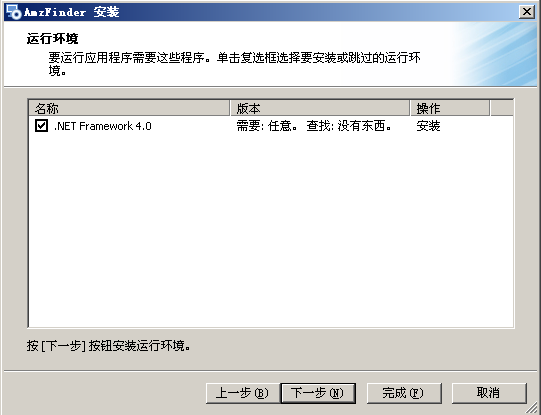
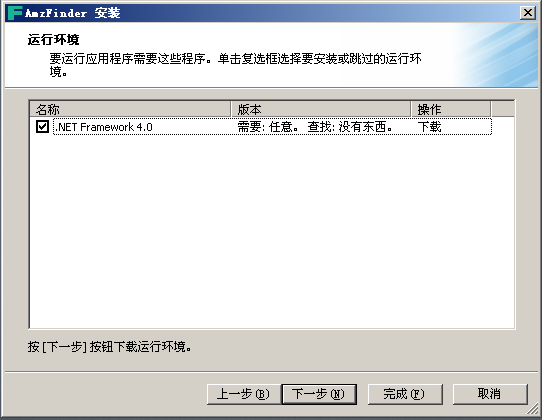
update

Changed region(s): [[0.0, 0.0, 1.0, 1.0]]

diff --git a/site/other/index.html b/site/other/index.html
@@ -141,7 +141,7 @@
               
                 <h4 id="seller-idaws-access-key-id-secret-key">Seller ID，AWS Access Key ID 和 Secret Key 从哪里得到？</h4>
 <p><strong><em>温馨提示：请在登录过Amazon 店铺的电脑进行此操作，以免发生关联。</em></strong></p>
-<p>根据您要添加的 Amazon 店铺站点，打开一下相应的链接。 这里以美国（US）为例</p>
+<p>根据您要添加的 Amazon 店铺站点，打开以下相应的链接。 这里以美国（US）为例</p>
 <p>美国（US）  ：<a href="https://developer.amazonservices.com">https://developer.amazonservices.com</a></p>
 <p>英国（UK）  ：<a href="https://developer.amazonservices.co.uk">https://developer.amazonservices.co.uk</a></p>
 <p>德国（DE）  ：<a href="https://developer.amazonservices.de">https://developer.amazonservices.de</a></p>

diff --git a/site/start/index.html b/site/start/index.html
@@ -184,6 +184,8 @@
 <p><img alt="Install" src="../img/install1.png" /></p>
 <p>勾选 .NET Framework 4.0 点击 “下一步” 按钮</p>
 <p><img alt="Install" src="../img/install2.png" /></p>
+<p>开始下载环境包，稍后片刻，等待下载完成点击 “下一步” 按钮</p>
+<p><img alt="Install" src="../img/install2.1.png" /></p>
 <p>开始解压环境包，待解压完成后，点击 “下一步” 按钮</p>
 <p><img alt="Install" src="../img/install3.png" /></p>
 <p>勾选 "我已阅读并接受条款(A)" 点击 “安装” 按钮</p>

diff --git a/site/index.html b/site/index.html
@@ -220,5 +220,5 @@
 
 <!--
 MkDocs version : 0.16.1
-Build Date UTC : 2017-02-08 08:25:34
+Build Date UTC : 2017-02-08 10:07:57
 -->

diff --git a/docs/other.md b/docs/other.md
@@ -2,7 +2,7 @@
 
   ***温馨提示：请在登录过Amazon 店铺的电脑进行此操作，以免发生关联。***
 
-  根据您要添加的 Amazon 店铺站点，打开一下相应的链接。 这里以美国（US）为例
+  根据您要添加的 Amazon 店铺站点，打开以下相应的链接。 这里以美国（US）为例
 
   美国（US）  ：[https://developer.amazonservices.com](https://developer.amazonservices.com)
 

diff --git a/docs/start.md b/docs/start.md
@@ -64,6 +64,10 @@
 
 ![Install](img/install2.png)
 
+开始下载环境包，稍后片刻，等待下载完成点击 “下一步” 按钮
+
+![Install](img/install2.1.png)
+
 开始解压环境包，待解压完成后，点击 “下一步” 按钮
 
 ![Install](img/install3.png)
